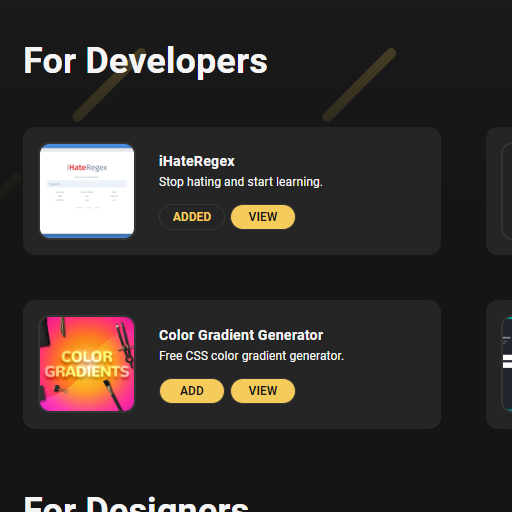
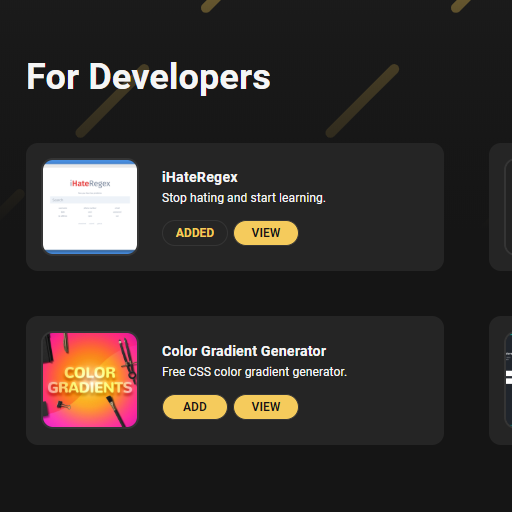
explore image changed

diff --git a/components/landing/LandingFooter/LandingFooter.tsx b/components/landing/LandingFooter/LandingFooter.tsx
@@ -4,7 +4,7 @@ import css from "./LandingFooter.module.scss";
 const LandingFooter: React.FC = () => {
   return (
     <div className={css.footer}>
-      <div>#StaySafe</div>
+      <div></div>
 
       <div>ToolDeck © 2020</div>
     </div>

diff --git a/components/landing/Promote/Promote.module.scss b/components/landing/Promote/Promote.module.scss
@@ -20,11 +20,10 @@
     object-position: top;
     object-fit: cover;
     border-radius: $r;
-    border: solid 1px $c-divider;
   }
 
   .text {
-    padding: $g-m 0;
+    margin-top: $g-m;
     text-align: center;
 
     span {
